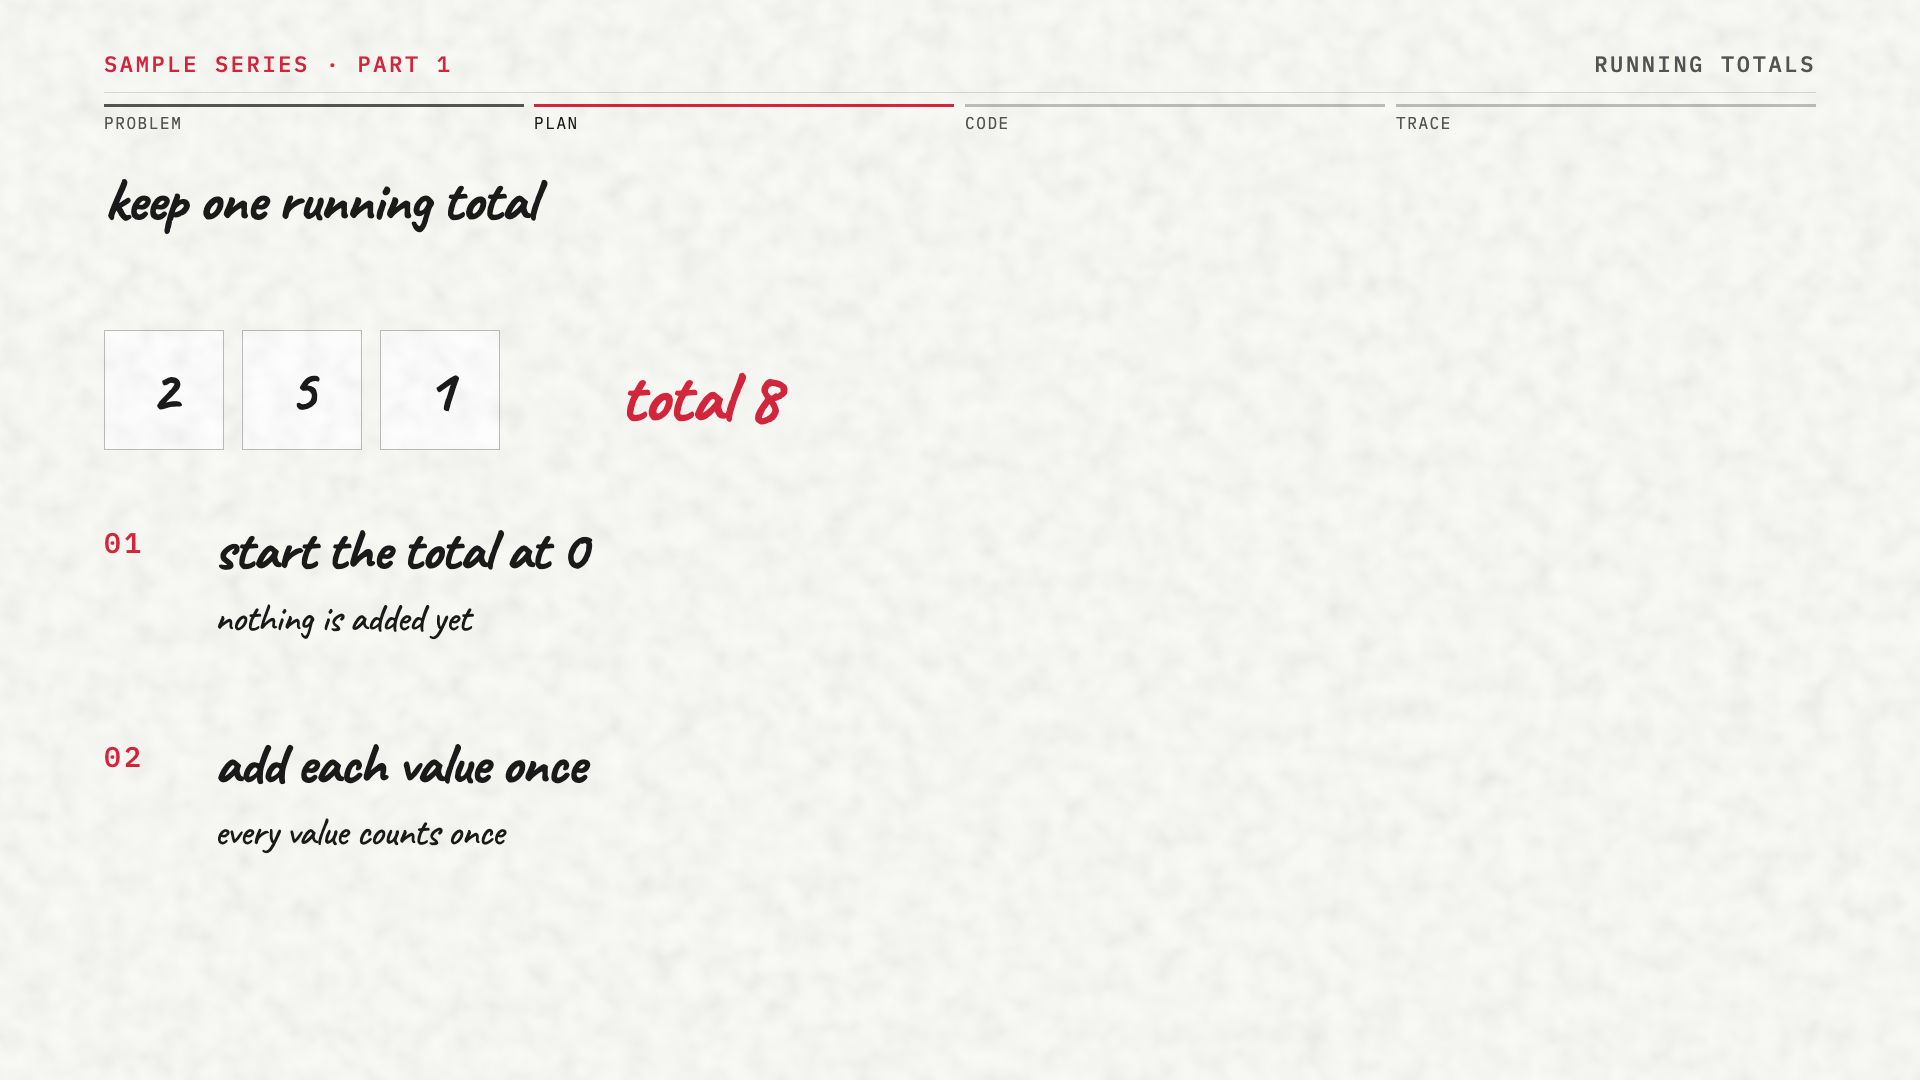
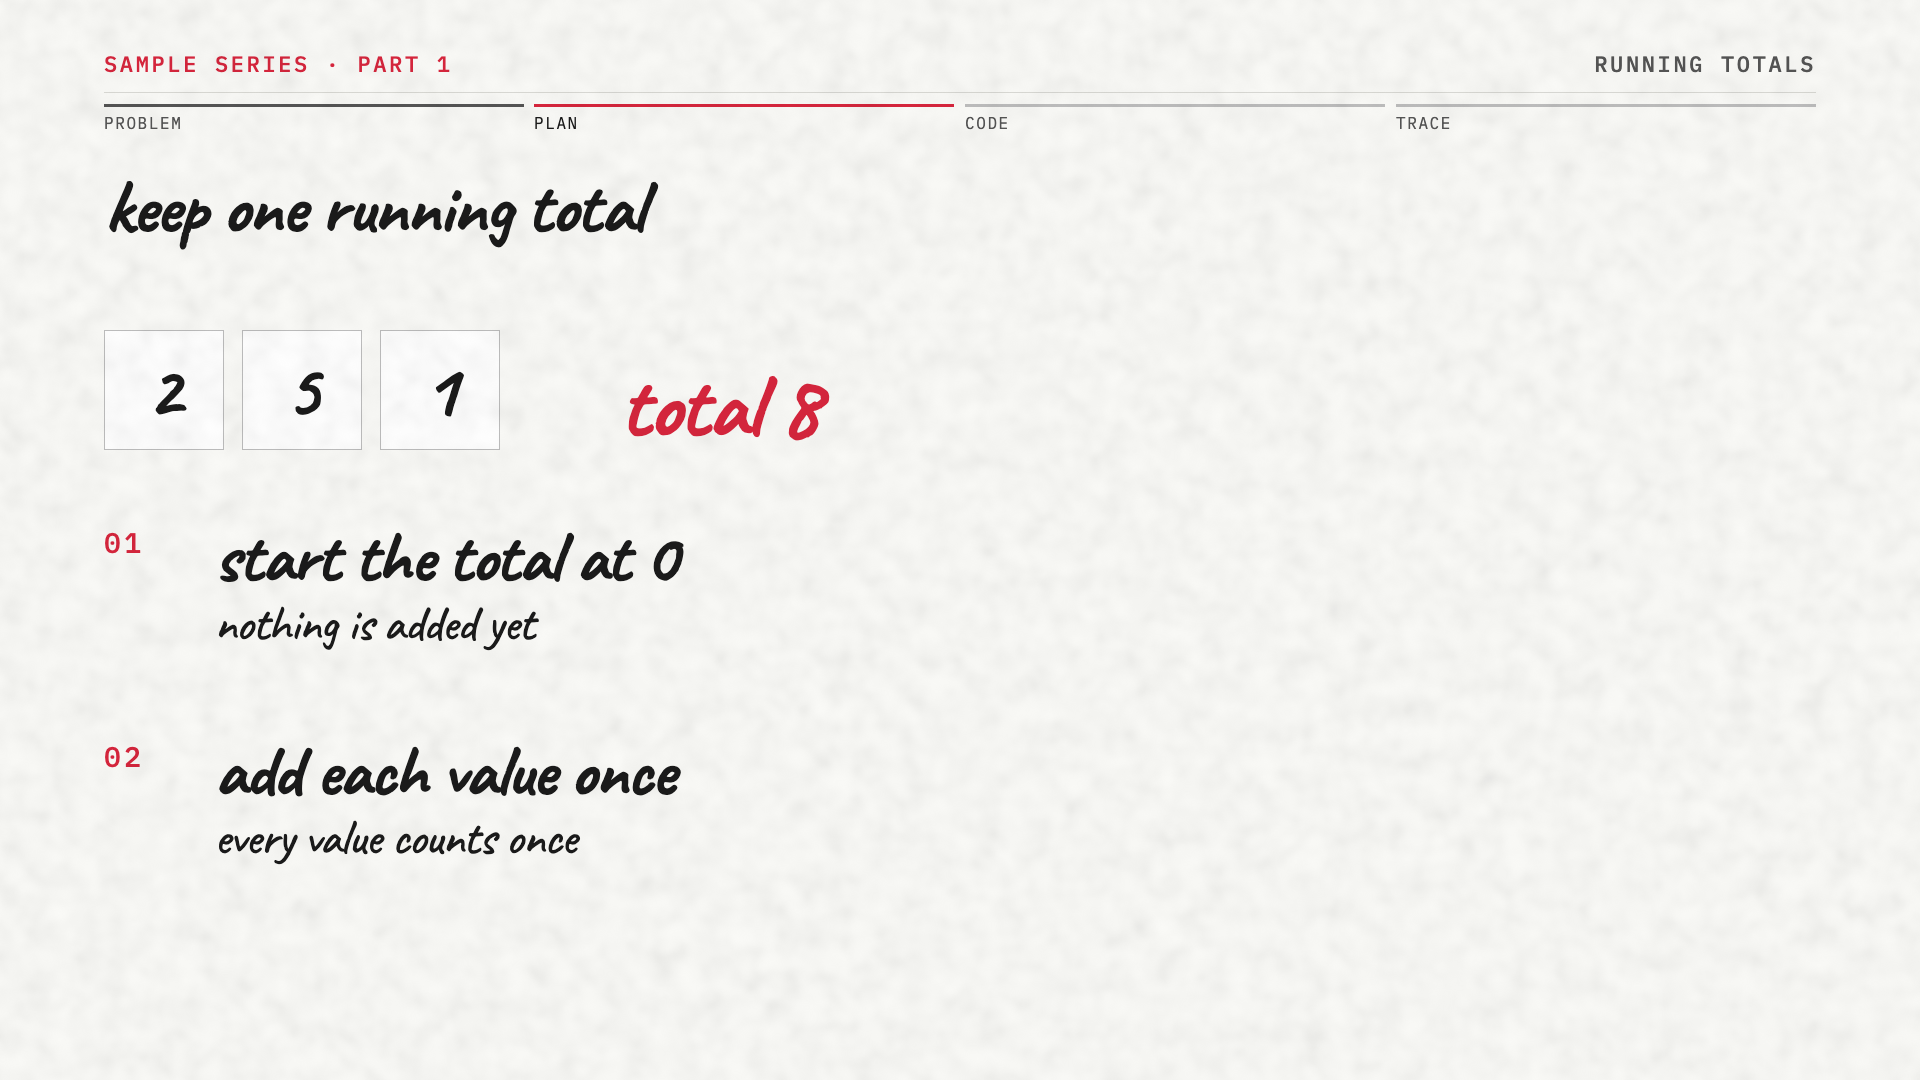
Theme demos, display_scale, and reveal masks lifted when done - chalk themes --demo [name,…]: an eight-second demo per theme through the real pipeline (frames/demos.mjs,   template in frames/demo/), narrated once and rendered in each theme into chalk-output/theme-demos/ - theme.json display_scale sc

diff --git a/frames/framelib.py b/frames/framelib.py
@@ -64,13 +64,13 @@ def load_themes():
             g = {k.upper(): v for k, v in t["palette"].items()}
             g.update(DISPLAY=t.get("display", "Barlow"), GRADIENT=t.get("gradient"), MARK_FILL=t.get("mark_fill", "rgba(0,0,0,0.1)"),
                      REVEAL=t.get("reveal", "rise"), FINISH=t.get("finish"), THEME_DIR=str(f.parent), GROUND=t.get("ground"),
-                     FIELD=t.get("field"))
+                     FIELD=t.get("field"), DISPLAY_SCALE=t.get("display_scale", 1.0))
             out[t.get("name", f.parent.name)] = g
     return out
 
 
 THEMES = load_themes()
-REVEAL, FINISH, THEME_DIR, GROUND, FIELD = "rise", None, None, None, None
+REVEAL, FINISH, THEME_DIR, GROUND, FIELD, DISPLAY_SCALE = "rise", None, None, None, None, 1.0
 
 
 def set_theme(name):
@@ -321,6 +321,10 @@ class Frame:
             self.tweens.append(f'tl.fromTo("{sel}", {{opacity: 0}}, {{opacity: 1, duration: 1.2, ease: "sine.inOut"}}, {at});')
         else:
             return False
+        if REVEAL in ("draw", "typed", "beam"):
+            # the mask ends at the element's box, and a slanted or glowing glyph runs past it: lift it once revealed
+            end = {"draw": 0.7, "beam": 0.8}.get(REVEAL) or float(re.search(r"duration: ([\d.]+)", self.tweens[-1]).group(1))
+            self.tweens.append(f'tl.set("{sel}", {{clipPath: "none"}}, {round(at + end + 0.01, 3)});')
         return True
 
     def wipe(self, sel, t, dur=0.6):
@@ -402,6 +406,10 @@ class Frame:
         """
         color = color or CREAM
         font = font or DISPLAY
+        # a display face set larger or smaller than its size says (a hand face is small, a bitmap face wide): the
+        # theme's display_scale, so a spec's sizes mean the same on screen in every theme
+        if font == DISPLAY and DISPLAY_SCALE != 1.0:
+            size = round(size * DISPLAY_SCALE)
         # the theme's accent gradient painted through the letters (Apple's keynote look); flat accent without one
         paint = (f"background:{GRADIENT};-webkit-background-clip:text;background-clip:text;color:transparent;"
                  if gradient and GRADIENT else f"color:{ORANGE if gradient else color};")
@@ -885,7 +893,7 @@ class Frame:
             cx = x + i * (size + gap)
             cid = f"{base}-c{i}"
             self.add(f'<div id="{cid}" class="{self.id}-cell" style="left:{cx}px;top:{y}px;width:{size}px;height:{size}px;'
-                     f'font-size:{font_size}px;color:{color};">{esc(str(v))}</div>')
+                     f'font-size:{round(font_size * DISPLAY_SCALE)}px;color:{color};">{esc(str(v))}</div>')
             out.append(f"#{cid}")
             if label_idx:
                 lid = f"{base}-i{i}"

diff --git a/frames/demo/frames/s01.py b/frames/demo/frames/s01.py
@@ -1,0 +1,14 @@
+from framelib import *
+
+
+def f1(F):
+    F.headline("keep one running total", "Keep", y=180, size=84)
+    cells = F.cells([2, 5, 1], 104, 380, size=150, gap=22, font_size=80)
+    t = F.cue("2, 5, 1")
+    for i, c in enumerate(cells):
+        F.pop(c, t + i * 0.3)
+    F.rise(F.text("add each value once", 104, 600, size=60, weight=700, eid=f"{F.id}-rule"), "Add")
+    F.pop(F.text("total 8", 760, 410, size=110, weight=800, color=ORANGE, eid=f"{F.id}-tot"), "8")
+
+
+FRAMES = {1: f1}

diff --git a/frames/themes/README.md b/frames/themes/README.md
@@ -9,12 +9,18 @@ fallback when nothing names one. `chalk themes` lists them, `chalk themes --show
 frames/themes/<name>/
   theme.json      palette (ink, ink_alt, orange = the accent slot, cream, muted, hint, border), display face, gradient,
                   mark_fill, reveal (rise | draw | typed | beam | step | fade), finish (one name or a list), and
-                  optionally ground (a CSS background over ink) and field (a drifting layer under the components)
+                  optionally ground (a CSS background over ink), field (a drifting layer under the components) and
+                  display_scale (a display face drawn larger or smaller, so a spec's sizes read the same in every theme)
   THEME.md        Essence · What it is not · Colour · Type · Motion · Pitfalls. The frames agent reads it; the
                   frames reviewer checks stills against its Pitfalls
   captions.css    the theme's captions, layered over the caption skin
   poster.png      one sample frame in the theme (`chalk themes --poster <name>`)
 ```
+
+**Demos.** `chalk themes --demo [name,…]` renders an eight-second video per theme through the real pipeline: the
+template in `frames/demo/` (a headline, three values, a rule, a result, one voice-over line) is narrated once
+with its channel's voice, then built and rendered in each theme. It writes `chalk-output/theme-demos/<name>.mp4`
+and `all-themes.mp4`. Render a demo of a theme of your own before you use it on a channel.
 
 **Your own themes** live in `~/.config/chalk/themes/<name>/` (or `$CHALK_THEMES`), same shape, listed first and
 never touched by an update. A theme of yours with a repo theme's name replaces it for you. Start by copying a

diff --git a/frames/LESSONS.md b/frames/LESSONS.md
@@ -37,3 +37,25 @@ after `COMPONENTS.md`.
 - **Fix.** Keep content in the Short's safe box (`frames/safe.json` `content`, which S4 checks); stack what sat
   side by side; shorten a line rather than shrink its type.
 - **Where it is right.** The burned-in captions sit at 1350 by design; they are the only thing that low.
+
+## A reveal mask that clips a slanted or glowing glyph
+
+- **Symptom.** The last letter of a line drawn in a hand face (Caveat) is cut off: "add each value onc", "total 8"
+  missing the tail of the 8.
+- **In a still.** The settled still at the end of a draw-on, typed or beam reveal; seen in the chalkboard, marker
+  and ink theme demos.
+- **Cause.** Those reveals wipe a `clipPath: inset(…)` open to the element's box, and a slanted glyph (or a glow)
+  draws past the box, so the finished mask still clips it.
+- **Fix.** framelib lifts the mask (`clipPath: "none"`) the moment the reveal ends. A new reveal style must do the
+  same.
+- **Where it is right.** An upright face inside its box (Inter, Barlow) is not clipped either way.
+
+## A display face much wider or smaller than its size says
+
+- **Symptom.** In `pixel` the headline wrapped onto the values below it; in the Caveat themes every line looked a
+  size too small.
+- **In a still.** The theme demos (`chalk themes --demo`), against the same spec in broadside.
+- **Cause.** A spec's sizes are written for Barlow and Inter; Press Start 2P is far wider and Caveat's x-height far
+  smaller.
+- **Fix.** `theme.json` `display_scale` (pixel 0.62, the Caveat themes 1.25) scales display text and value cells,
+  so a spec reads the same in every theme. A new theme with an unusual face sets one, checked by its demo.

diff --git a/README.md b/README.md
@@ -375,7 +375,9 @@ lines and stations), `sketchnote` (a highlighter and icons), `pictogram` (an ico
 balloons) and `silhouette` (a silhouette set and beat cuts on a music clock).
 
 Your own go in `~/.config/chalk/themes/<name>/` and are listed first. `chalk themes` lists them, `chalk themes
---show <name>` prints one's grammar, `chalk themes --poster <name>` renders its poster.
+--show <name>` prints one's grammar, `chalk themes --poster <name>` renders its poster, and `chalk themes --demo`
+renders an eight-second demo video of each through the real pipeline (voice, captions, frames, render) into
+`chalk-output/theme-demos/`.
 
 ## Publishing
 
@@ -412,7 +414,7 @@ chalk pipeline adopt <out>             record a hand-made build as up to date
 chalk status <out> [--json]            what is done, stale or waiting, and why (--json for programs)
 chalk read-aloud <out>                 the scripts as a viewer gets them: screen, code, captions, no sources
 chalk pack <out> [--list]              the genre pack a build is judged by, and its references
-chalk themes [--show n | --for <out> | --poster n]   the themes, one's grammar, a build's theme, a poster
+chalk themes [--show n | --for <out> | --poster n | --demo [n,…]]   the themes, one's grammar, a build's theme, a poster, demo videos
 
 chalk <core command> [args...]         ingest, check-readability, check-spoken, narrate, align-captions, facts, loudness, …
 chalk assets                           stage fonts and GSAP once per machine

diff --git a/frames/themes/sketch/THEME.md b/frames/themes/sketch/THEME.md
@@ -28,3 +28,5 @@ Things rise into place (`rise`), values pop, lines are drawn. One change at a ti
 
 - With no accent, a marked cell needs a heavier border, not a fill.
 - White frames flare on a dark phone: keep scenes short.
+- Its captions sit at the top (y 250), clear of the skit's characters: on a frame with content up there (a lesson, a
+  worked example) they collide with it. For that, use `marker`, which has the same paper look with the captions below.

diff --git a/frames/demo/segments/01/script.md b/frames/demo/segments/01/script.md
@@ -1,0 +1,19 @@
+# 01 — Running totals
+
+## Scene 1 — the total
+visual: worked example (tier 1)
+duration: ~9s
+stage: hook
+example: chapter
+
+- spoken: "Keep one running total."
+  display: "Keep one running total."
+  source: [p001]
+
+- spoken: "Two, five, one. Add each value once."
+  display: "2, 5, 1. Add each value once."
+  source: [p001]
+
+- spoken: "And the total is eight."
+  display: "And the total is 8."
+  source: [p001]
